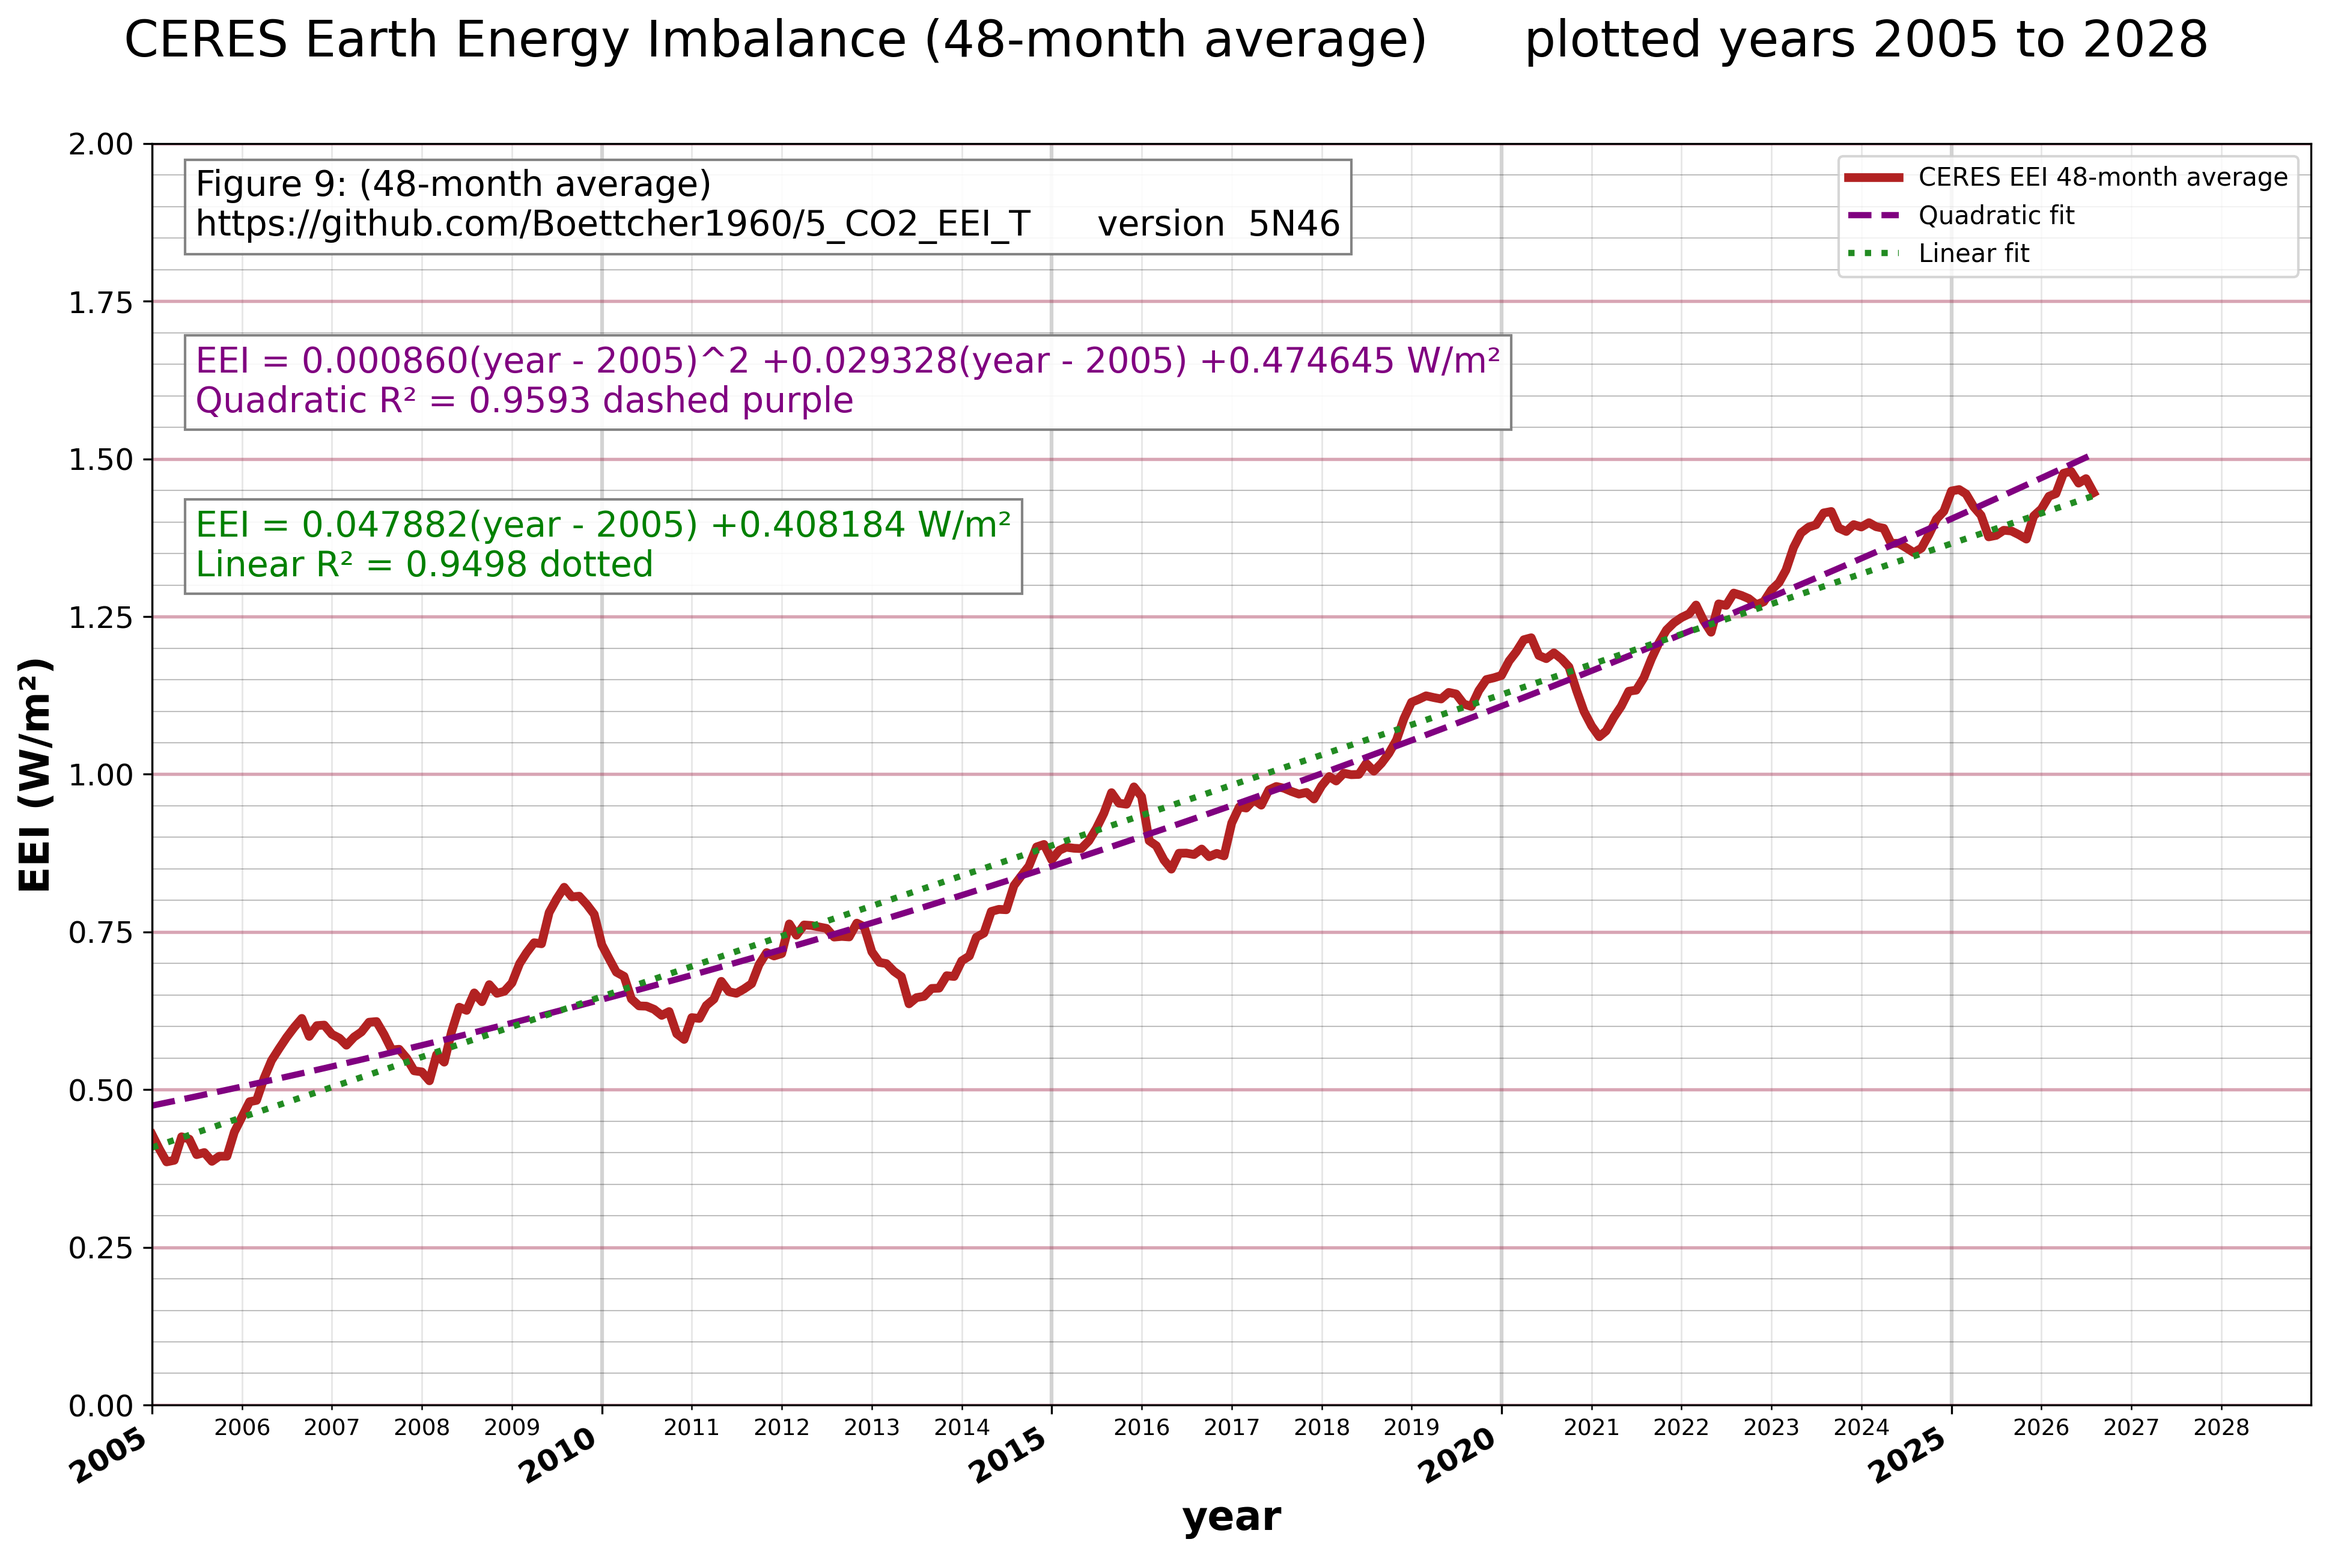
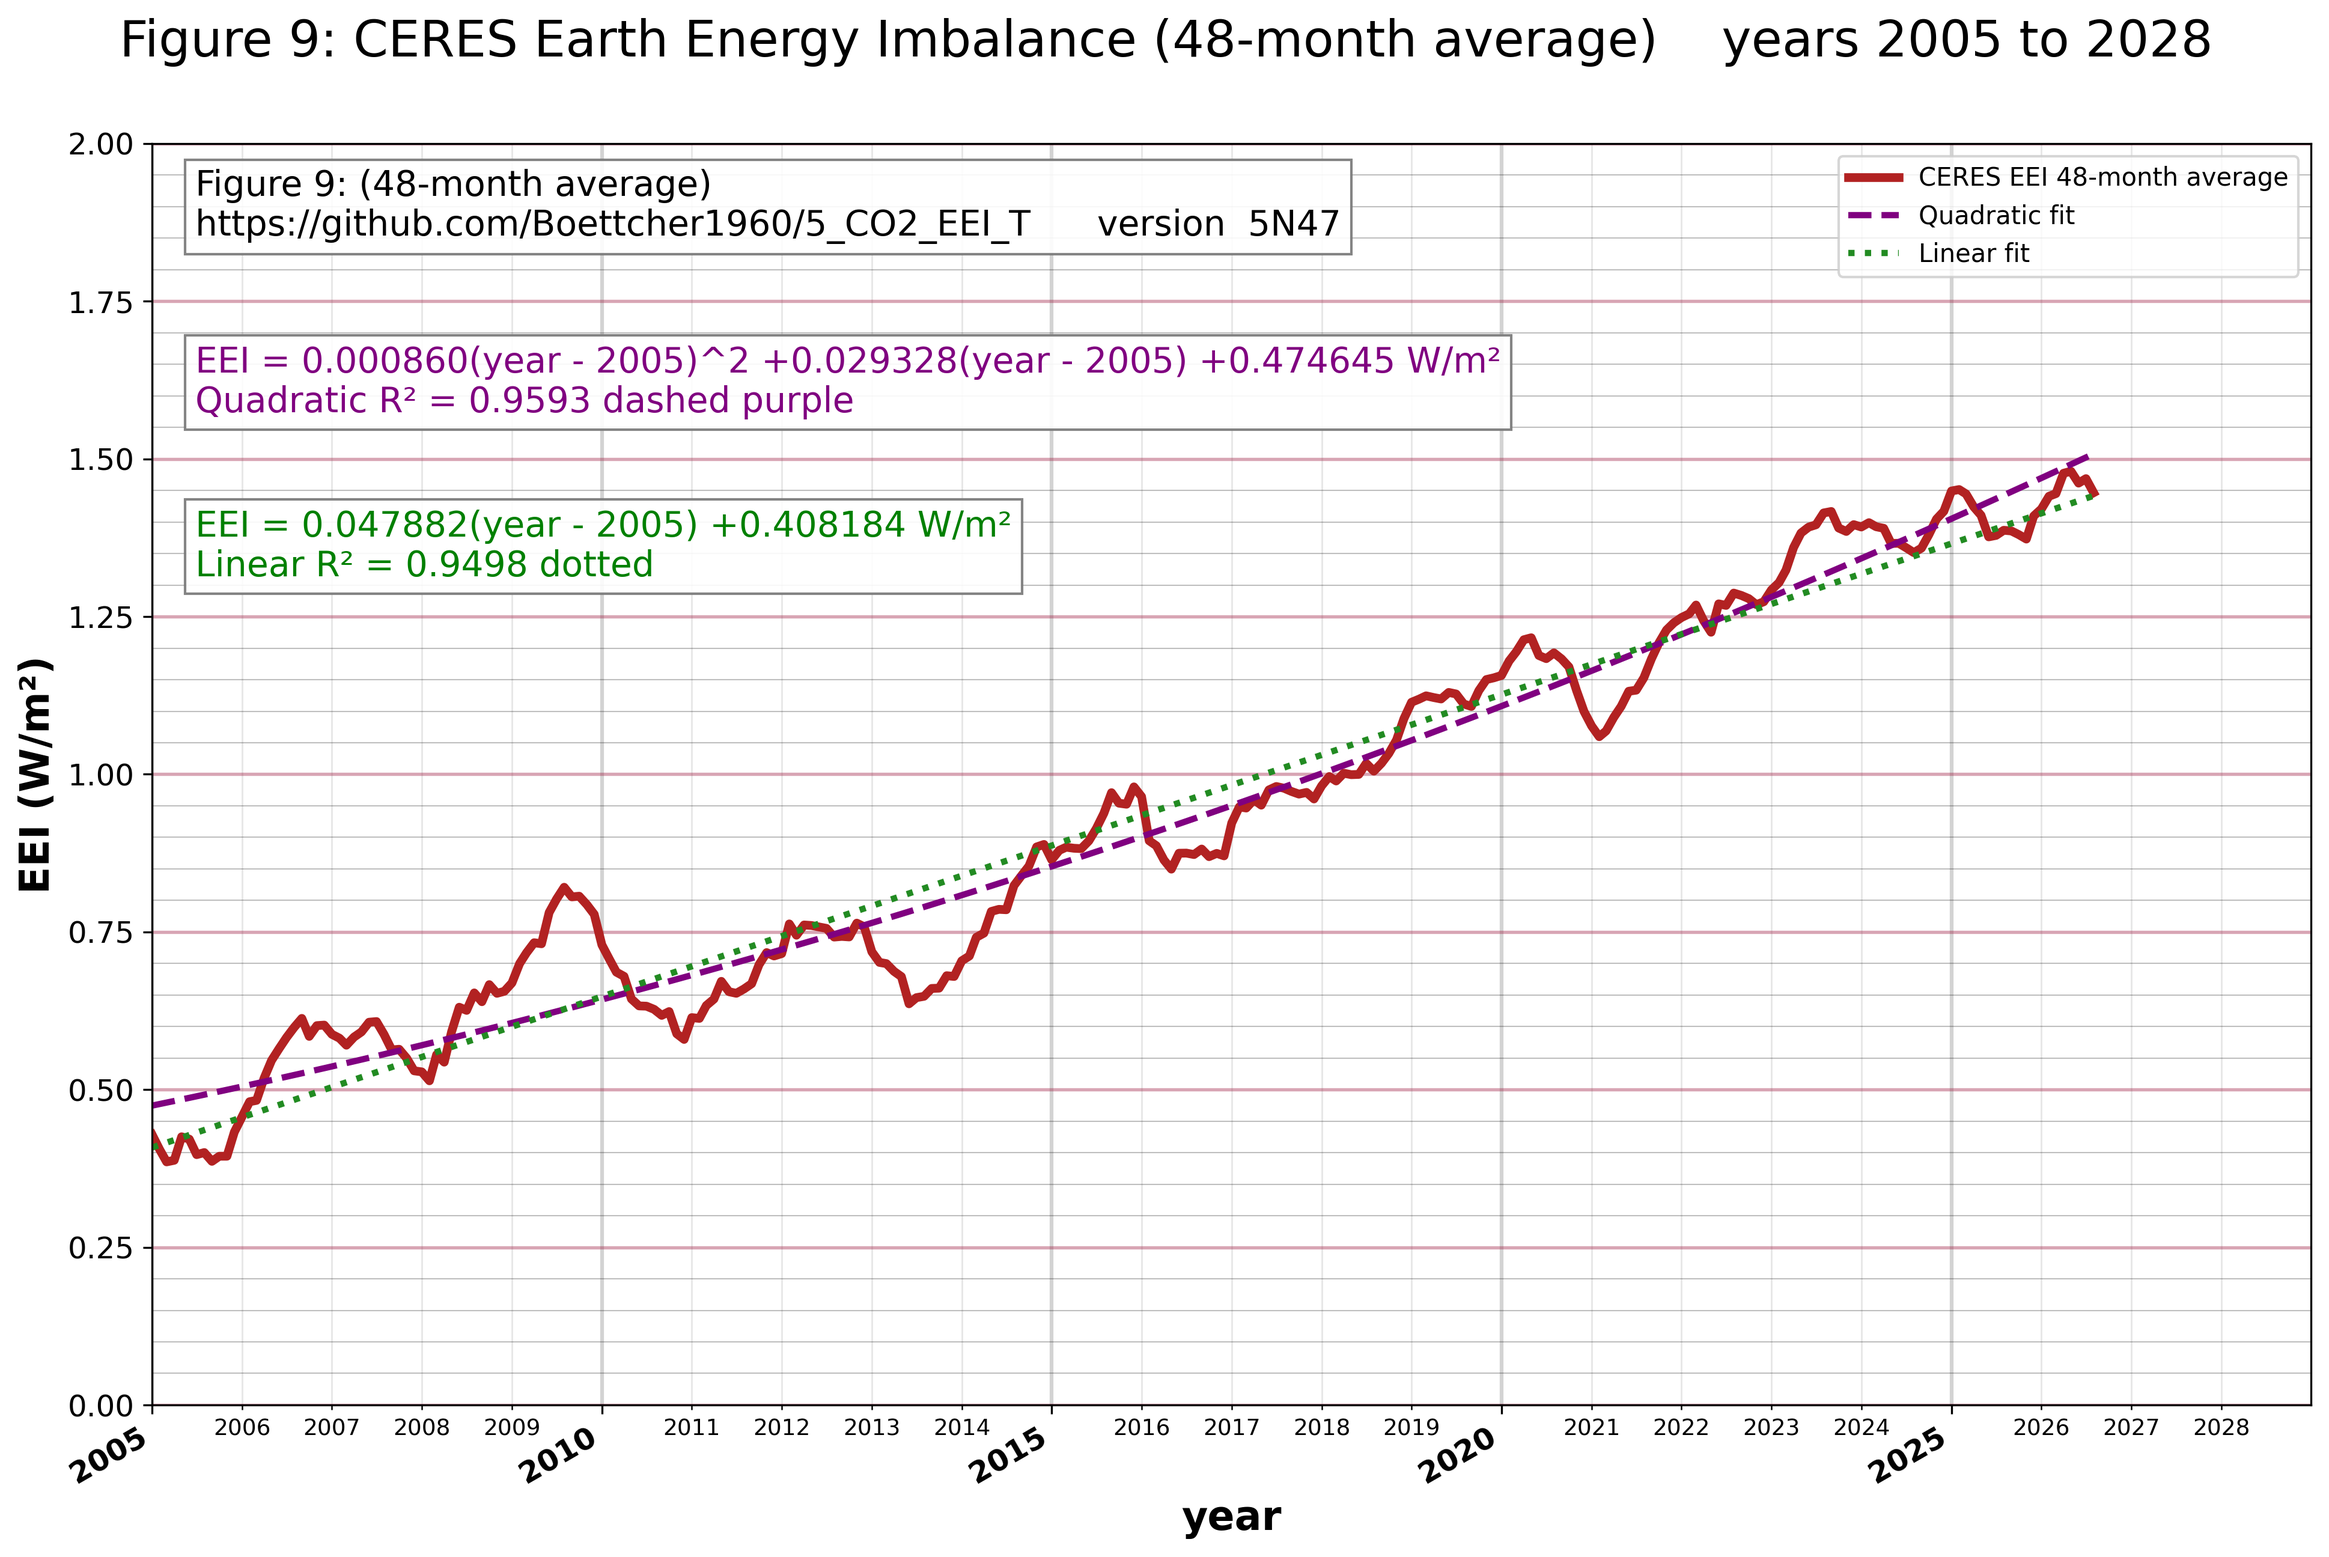
5N47" # figure 404

Changed region(s): [[0.0624, 0.0, 0.9678, 0.0618]]

diff --git a/ceres.py b/ceres.py
@@ -801,11 +801,13 @@ def fig_404_eei_quadratic():
     )
 
     # 404.40 Build the headline with the averaging period and displayed year range.
-
+    # f"Figure {figure4_9}: ({window_months}-month average)\n"
     headline = (
-        f"CERES Earth Energy Imbalance ({window_months}-month average) "
-        f"     plotted years {x_anf} to {x_end}"
+        f"Figure {figure4_9}: CERES Earth Energy Imbalance ({window_months}-month average) "
+        f"   years {x_anf} to {x_end}"
     )
+
+
 
     # 404.41 Specify the desired distance from the figure's top edge in points.
     headline_margin_points = 30

diff --git a/main.py b/main.py
@@ -1,5 +1,5 @@
 # main.py
-v = "5N46" # figure 404
+v = "5N47" # figure 404
 #
 #
 #
